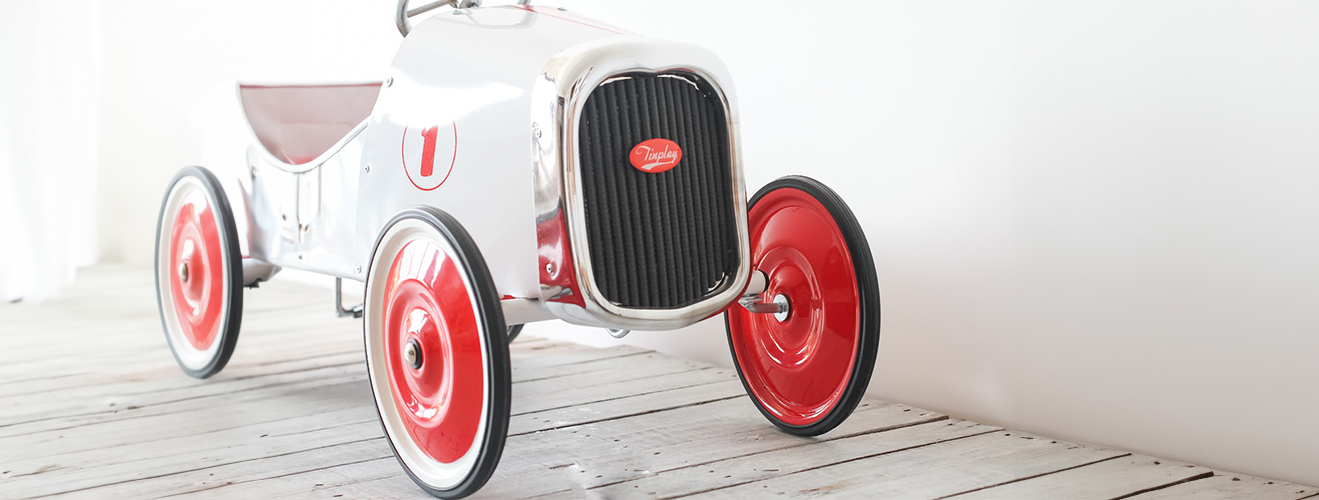
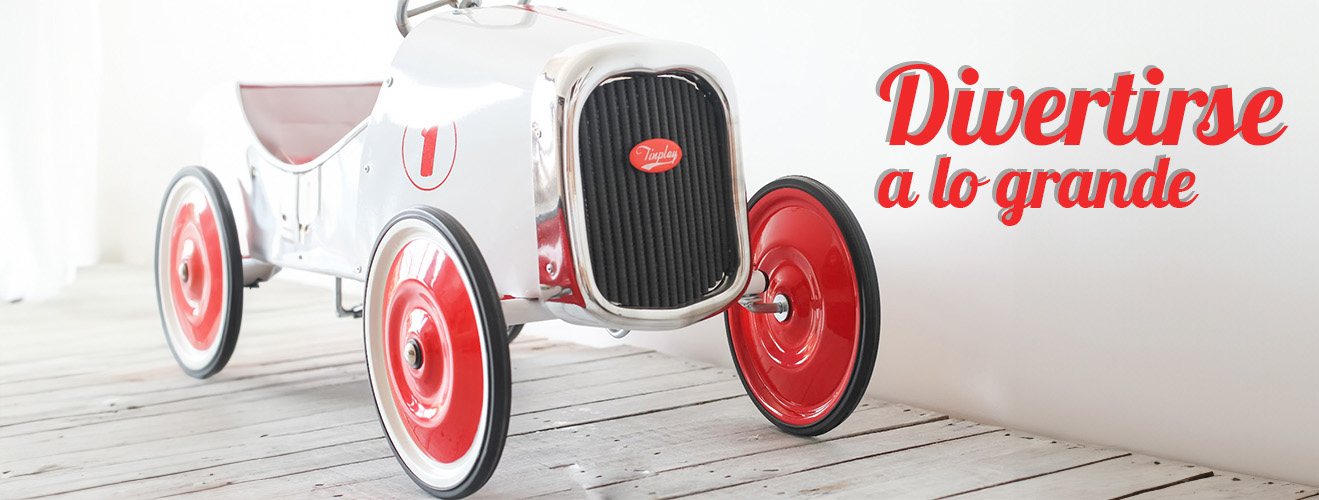
arreglos-hasta-el-06/06

Changed region(s): [[0.6528, 0.12, 0.9947, 0.45]]

diff --git a/css/style.css b/css/style.css
@@ -111,7 +111,7 @@ nav{
 /*fin-nav-responsive*/
 .menu{
     display: flex;
-    padding-top: 1.563rem;
+    padding-top: 1.4rem;
     width: 25rem;
     justify-content: space-between;
 }
@@ -172,6 +172,11 @@ a{
 #banner-slogan .firma-tinplay{
     margin-left: 62.5rem ;
 }
+#banner-slogan .raya {
+    width: 40%;
+    height: 40%;
+    margin-left: 30rem ;
+}
 #productos{
     width: 100%;
     height: 50rem;
@@ -200,7 +205,7 @@ a{
 
 .contenedor-products{
     margin-top: 2.5rem;
-    padding-bottom: 12.5rem;
+    padding-bottom: 1rem;
     margin-left: 9.375rem ;
     margin-right: 9.375rem;
     max-width: 98.75rem;
@@ -209,9 +214,6 @@ a{
     justify-content: space-between;
     
 }
-/*.foto-producto:hover{
-    width: 110%;
-    height: 110%;*/
 
  h3 {
     font-family: "Cookie", cursive;
@@ -237,24 +239,9 @@ a{
     flex-direction: column;
     align-items: center;
 }
-.contenedor-products .triciclo {
-    display: flex;
-    flex-direction: column;
-    align-items: center;
-}
-.contenedor-products .surtidor {
-    display: flex;
-    flex-direction: column;
-    align-items: center;
-}
-.contenedor-products .peluqueria {
-    display: flex;
-    flex-direction: column;
-    align-items: center;
-}
 .contenedor-products div {
     height: 16.375rem;
-    width: 22.938rem;
+    width: 24.5rem;
     background-color: white;
     box-shadow: 0rem 0.625rem 1.563rem rgb(0, 0, 0, 0.3);
     margin-top: 0.938rem;
@@ -281,13 +268,11 @@ a{
     align-items: center;
     justify-content: center;
     height: 16.375rem;
-    width: 22.938rem;
+    width: 24.5rem;
     position: absolute;
     margin-top: 0rem;
     background-color: rgb(0, 0, 0, 0.7) ;
     opacity: 0;
-    
-
 }
 .contenedor-products div .hover:hover {
     opacity: 100;
@@ -308,7 +293,114 @@ a{
     font-family: "Inter", sans-serif;
     font-size: 0.875rem;
 }
+.products-segunda-linea {
+    padding-bottom: 12.5rem;
+    margin-left: 9.375rem ;
+    margin-right: 9.375rem;
+    max-width: 98.75rem;
+    display: flex;
+    flex-wrap: wrap;
+    justify-content: space-between;
+}
+.products-segunda-linea div {
+    height: 13rem;
+    width: 18rem;
+    background-color: white;
+    box-shadow: 0rem 0.625rem 1.563rem rgb(0, 0, 0, 0.3);
+    margin-top: 0.938rem;
+    border-radius: 1.563rem;
+    display: flex;
+    justify-content: center
+}
+.products-segunda-linea .edades {
+    background-color: red;
+    width: 130px;
+    height: 35px;
+    position: absolute;
+    display:flex ;
+    align-items: center;
+    margin-right: 140px;
+    margin-bottom: 50px;
+    z-index: 99;
+}
+.products-segunda-linea .edades h6 {
+    font-family: "Inter", sans-serif;
+}
+.products-segunda-linea div .hover {
+    display: flex;
+    align-items: center;
+    justify-content: center;
+    height: 13rem;
+    width: 18rem;
+    position: absolute;
+    margin-top: 0rem;
+    background-color: rgb(0, 0, 0, 0.7) ;
+    opacity: 0;
+}
+.products-segunda-linea div .hover:hover {
+    opacity: 100;
+}
+.products-segunda-linea .ver-mas {
+    position: absolute;
+    height: 3.125rem;
+    background-color: #686767;
+    display: flex;
+    align-items: center ;
+    margin-top: 11rem;
+    border-top-left-radius: 0rem;
+    border-top-right-radius: 0rem;
+}
+.products-segunda-linea .ver-mas h4 {
+    color: white;
+    font-family: "Inter", sans-serif;
+    font-size: 0.875rem;
+}
+.products-segunda-linea .triciclo {
+    display: flex;
+    flex-direction: column;
+    align-items: center;
+}
+.products-segunda-linea .surtidor {
+    display: flex;
+    flex-direction: column;
+    align-items: center;
+}
+.products-segunda-linea .peluqueria {
+    display: flex;
+    flex-direction: column;
+    align-items: center;
+}
+.products-segunda-linea .proximamente {
+    display: flex;
+    flex-direction: column;
+    align-items: center;
+    
+}
+.products-segunda-linea .proximamente div{
+    background-color: #939191;
+    align-items: center;
+    overflow-y: hidden;
+    display: flex;
+}
+.products-segunda-linea .proximamente div h4 {
+    position: absolute;
+    z-index: 1;
+    color: white;
+    font-family: "Galada", cursive;
+}
+.products-segunda-linea .proximamente div .opacidad{
+    height: 13rem;
+    width: 18rem;
+    background-color: rgb(0, 0, 0, 0.7) ;
+    opacity: 80;
+    position: absolute;
+    margin-bottom: 0.938rem;
 
+}
+.products-segunda-linea .proximamente div .foto-producto{
+    height: 11rem;
+    width: 14rem;
+}
 #como-comprar{
     height: 80vh;
 }
@@ -586,7 +678,7 @@ footer .linea {
 
 /*seccion de producto*/
 .flecha{
-    margin-top: 6.25rem;
+    margin-top: 5rem;
 }
 .volver-home {
     margin-left: 9.375rem;
@@ -643,7 +735,7 @@ footer .linea {
 #producto .descripcion .stock{
     margin-top: 1rem;
     margin-bottom: 1rem;
-    color: #949494;
+    color: #ff0000;
     font-family: "Inter", sans-serif;
     margin-left: 3.125rem;
 }

diff --git a/index.html b/index.html
@@ -17,6 +17,7 @@
 <link rel="preconnect" href="https://fonts.gstatic.com" crossorigin>
 <link href="https://fonts.googleapis.com/css2?family=Cookie&display=swap" rel="stylesheet">
     <link rel="stylesheet" href="./css/style.css">
+   <link rel="stylesheet" href="https://cdnjs.cloudflare.com/ajax/libs/animate.css/4.1.1/animate.min.css"> 
     <link rel="icon" type="image/png" href="./images/logo-tinplay-rojo.png"/>
 
 
@@ -69,6 +70,7 @@
             </ul>
         </div>
         <h1 class="slogan"><span class="primera-tipografia">"Siempre recordarás</span><span class="segunda-tipografia">tu primer auto"</span></h1>
+        <img class="raya" src="./images/subrayado.svg" alt="">
         <img class="firma-tinplay" src="./images/logo-tinplay-rojo.png" alt="logo-tinplay-rojo">
     </section>
     <section id="productos">
@@ -99,6 +101,8 @@
                 </div></a>
                 <div class="ver-mas"><h3>Wagon</h3></div>
             </article>
+        </div>
+        <div class="products-segunda-linea">
             <article class="triciclo">
                 <a href="./sections/triciclo.html"><div>
                     <div class="edades"><h6>De 1 a 6 años</h6></div>
@@ -122,6 +126,13 @@
                     <img class="foto-producto" src="./images/peluqueria.png" alt="peluqueria">
                 </div></a>
                 <div class="ver-mas"><h3>Peluqueria</h3></div>
+            </article>
+            <article class="proximamente">
+                <div>
+                    <h4>Proximo lanzamiento</h4>
+                    <div class="opacidad"></div>
+                    <img class="foto-producto" src="./images/bugattin-silueta.png" alt="bugattin">
+                </div></a>
             </article>
         </div>
         
@@ -215,7 +226,7 @@
             <b>Gracias por sumarte a esta familia, no dudes en contactarnos ante cualquier duda!</b>
             </p>
         </div>
-        <h4 class="titulo-slider">Marcas que confían en nosotros</h4>
+        <h4 class="titulo-slider">Algunas de las marcas que confían en nosotros</h4>
         <div class="slider-infinito">
             <div class="slider-track">
                 <div class="slide">

diff --git a/sections/bugatin -rojo.html b/sections/bugatin -rojo.html
@@ -66,19 +66,19 @@
         </div>
         <div class="descripcion">
             <h2>Bugattin</h2>
-            <h4 class="stock">Consultar stock y tiempo de entrega antes de comprar</h4>
             <ul>
                 <li>Autito a pedal con carrocería de chapa con pintura en polvo termocontraíble.</li>
                 <li>Volante de aluminio cromado.Tablero de madera.Ruedas de chapa con pintura en polvo termocontraíble y neumàtico de caucho.</li>
                 <li>Chasis de caño metálico. Asiento de madera forrado en ecocuero.</li>
                 <li><b>Para niños de 4 a 6 años.</b></li>
-                <li>Tienen tres niveles de regulaciòn en los pedales para adaptarse.</li>
+                <li>Tienen tres niveles de regulación en los pedales para adaptarse.</li>
                 <li>Incluye dos faros led a pila de 50 lm, bocina corneta metálica cromada y asiento en ecocuero mateassé.</li>
                 <li><b>Mide 90 cm de largo, 40 cm de ancho y 50 cm de alto.</b></li>
                 <li><b>Peso:</b> 9,5 kg</li>
                 
             </ul>
             <h4 class="envios">Envíos gratis a todo el país.</h4>
+            <h4 class="stock">Consultar stock y tiempo de entrega antes de comprar</h4>
             <div class="colores-disponibles">
                 <h4>Colores disponibles:</h4>
                 <div class="colores">

diff --git a/sections/baquetin-negro.html b/sections/baquetin-negro.html
@@ -76,6 +76,7 @@
                 <li><b>Mide 90 cm de largo, 40 cm de ancho y 50 cm de alto.</b></li>
                 <li><b>Peso:</b> 9,5 kg</li>
             </ul>
+            <h4 class="stock">Consultar stock y tiempo de entrega antes de comprar</h4>
             <h4 class="envios">Envíos gratis a todo el país.</h4>
             <div class="colores-disponibles">
                 <h4>Colores disponibles:</h4>
